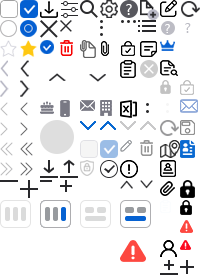
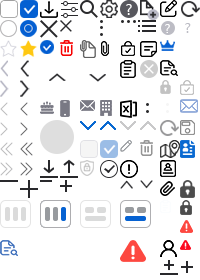
수정 / 직무직군관리 화면 추가

Changed region(s): [[0.9, 0.6286, 0.99, 0.7714], [0.0, 0.8571, 0.09, 0.9143]]

diff --git a/view/jobAdmin.html b/view/jobAdmin.html
@@ -56,7 +56,7 @@
                 
                 <section class="jobAdmin">
                     <div class="pageTit">
-                        <h2>스킬관리</h2>
+                        <h2>직무직군관리</h2>
                     </div>
                     
                     <div class="regiPartWrapper noInfo">      
@@ -74,7 +74,7 @@
 
                                 <div class="divideBox">
                                     <div class="left">
-                                        <h5>스킬 분류</h5>
+                                        <h5>직무직군 분류</h5>
                                         
                                         <div class="optList">                                            
                                             <ul>
@@ -99,24 +99,27 @@
                                             </ul>
                                         </div>
                                     </div>
-                                    <div class="center"><!--230901 수정 -ys -->
-                                        <h5>스킬 목록</h5>
+                                    <div class="center">
+                                        <h5>직무직군 목록</h5>
 
                                         <div class="optList">                                            
                                             <ul>
                                                 <li class="nodata">등록된 스킬이 없습니다.</li><!--데이터 없음-->
+                                                <li class="is-active">전체</li>
+                                                <li class="disabled">(미사용) Framework</li>
+                                                <li>Architect</li>
+                                                <li>Language</li>
                                             </ul>
                                         </div>
                                         <button class="white full">+ Lv1 공통코드 추가</button>
                                     </div>
                                     <div class="right">
-                                        <h5>스킬상세 조회</h5>
+                                        <h5>직무직군 상세조회</h5>
                 
                                         <div class="inputList flex">   
                                             <ul>
                                                 <li>
                                                     <label  class="need" for="group">분류</label>
-                                                    <!-- <div class="infoBox"><p class="info">Architect</p></div> -->
                                                     <select class="wideSize" name="" id="" disabled>
                                                         <option value="">choose</option>
                                                         <option value="dog" disabled="">Dog</option>
@@ -212,7 +215,6 @@
                     <div class="left">
                         <h5>스킬 분류</h5>
 
-                        <!--230519 수정 -ys -->
                         <div class="optList">                                            
                             <ul>
                                 <li class="is-active">전체</li><!--선택 is-active 클래스 추가-->
@@ -235,7 +237,6 @@
                                 <li>(미사용) Framework</li>
                             </ul>
                         </div>                        
-                        <!--//230519 수정 -ys -->
                         
                         <button class="white full">+ 분류 추가</button>
                     </div>

diff --git a/view/bizStateRegister.html b/view/bizStateRegister.html
@@ -914,13 +914,13 @@
                                                                     <input type="checkbox" id="tt3">
                                                                     <label for="tt3"></label>
                                                                 </th>
-                                                                <th rowspan="2">그룹</th>
-                                                                <th rowspan="2">계약상태</th>
-                                                                <th rowspan="2">상태</th>
-                                                                <th rowspan="2">소속/부서</th>
-                                                                <th rowspan="2">투입인력</th>
-                                                                <th rowspan="2">직무/모듈</th>
-                                                                <th rowspan="2">등급</th>
+                                                                <th rowspan="2" width="90px">그룹</th>
+                                                                <th rowspan="2" width="105px">계약상태</th>
+                                                                <th rowspan="2" width="85x">상태</th>
+                                                                <th rowspan="2" width="120px">소속/부서</th>
+                                                                <th rowspan="2" width="95px">투입인력</th>
+                                                                <th rowspan="2" width="120px">직무/모듈</th>
+                                                                <th rowspan="2" width="85px">등급</th>
 
                                                                 <!--매출-->
                                                                 <th colspan="6" class="sales">매출<i class="ico extend sales is-active"></i></th><!--231115 하단에 보일때는 모두 펼침-->

diff --git a/assets/scss/_partial/_icon.scss b/assets/scss/_partial/_icon.scss
@@ -175,6 +175,9 @@
         height: rem(16);
         background-position: -160px -60px;
         cursor: pointer;
+        &.is-active{
+            background-position: 0 -240px;
+        }
     }
     &.preview_w{
         width: rem(18);

diff --git a/assets/scss/_partial/_page_bizStateRegister.scss b/assets/scss/_partial/_page_bizStateRegister.scss
@@ -99,7 +99,7 @@
             &.absol{
                 position: absolute;
                 top: 0;
-                left: 510px;
+                left: 630px;
             }
         }
     }
